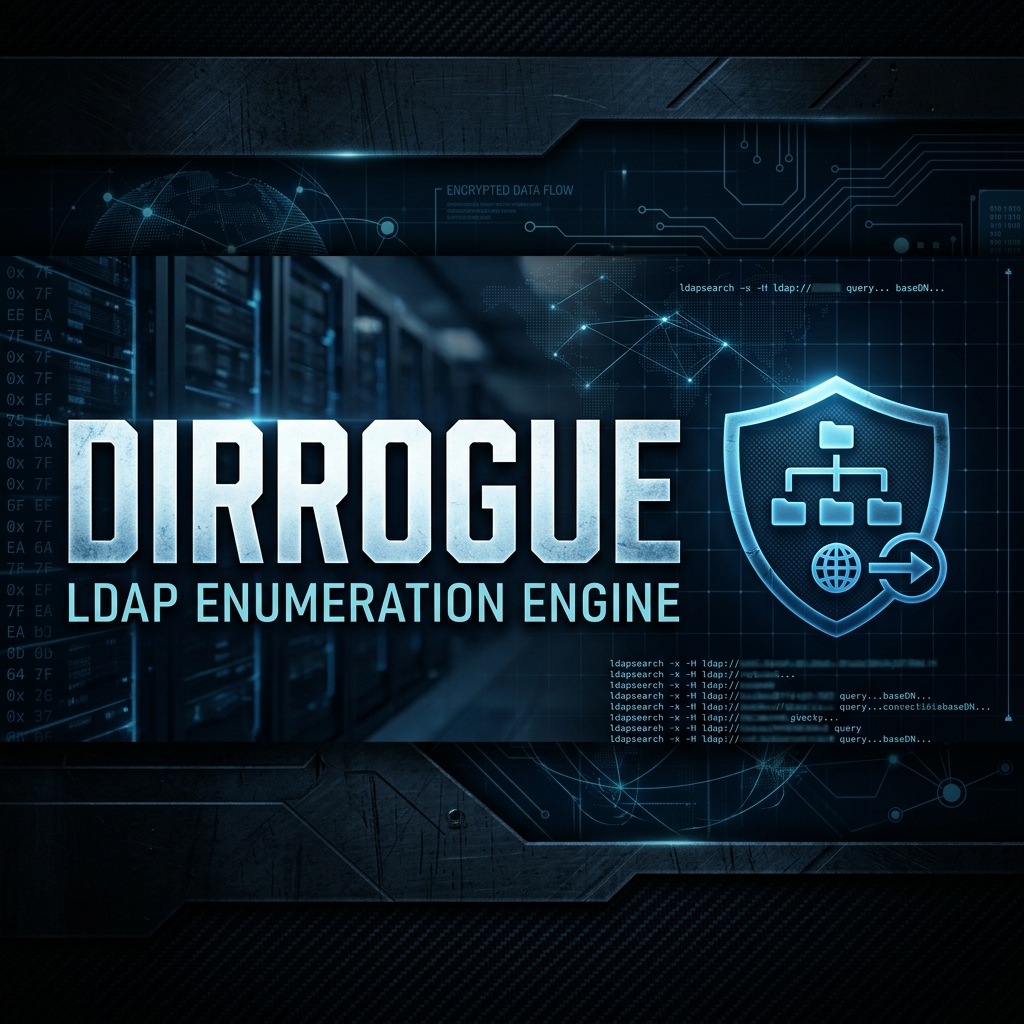
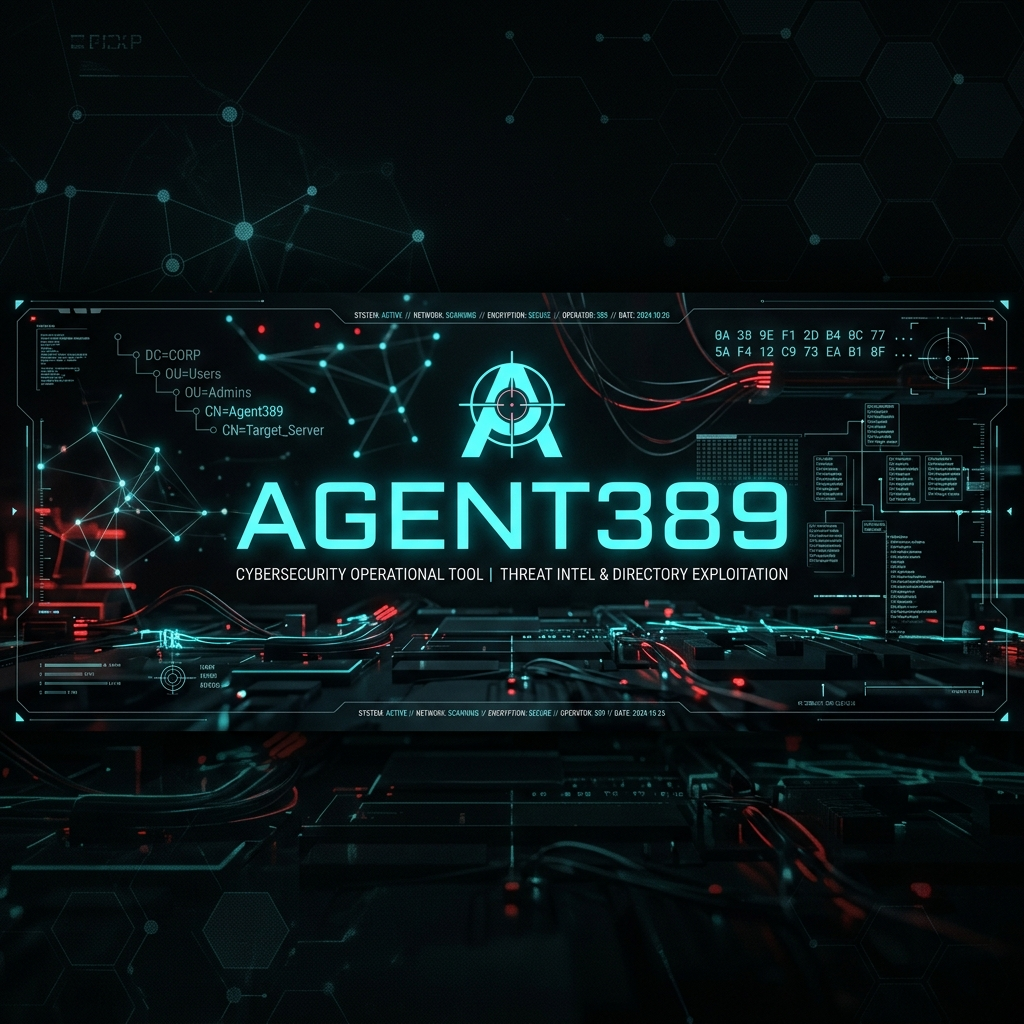
feat: transform project to Agent389 with professional hacker aesthetic

diff --git a/agent389.py b/agent389.py
@@ -28,7 +28,7 @@ def _parse_auth_data(s: Optional[str]) -> Dict[str, str]:
     return dict(p.split("=", 1) for p in s.split("&") if "=" in p)
 
 def _parse_args():
-    p = argparse.ArgumentParser(prog="dirrogue", description="DirRogue: Advanced LDAP Injection Security Toolkit")
+    p = argparse.ArgumentParser(prog="agent389", description="Agent389: Advanced LDAP Injection Security Toolkit")
     p.add_argument("target", help="Target base URL (e.g., http://nexus-corp.internal)")
     
     auth = p.add_argument_group("Authentication & Connection")
@@ -54,7 +54,7 @@ def _parse_args():
 
     out = p.add_argument_group("Output")
     out.add_argument("--output-dir", default=".", help="Directory to save findings")
-    out.add_argument("--findings", default="dirrogue_findings.json", help="JSON output filename")
+    out.add_argument("--findings", default="agent389_findings.json", help="JSON output filename")
     out.add_argument("-v", "--verbose", action="store_true", help="Enable verbose logging")
     out.add_argument("-q", "--quiet", action="store_true", help="Disable banner and info logs")
 

diff --git a/core/utils.py b/core/utils.py
@@ -11,7 +11,7 @@ from .models import Endpoint, Severity, ResponseClass, _TECHNIQUE_TO_FAMILY, _CV
 from .patterns import LDAP_ERRORS_RE, AUTH_SUCCESS_HIGH_RE, AUTH_SUCCESS_LOW_RE, AUTH_FAIL_RE, AUTH_FAIL_HTML_RE
 
 def now_iso() -> str: return datetime.now(timezone.utc).isoformat().replace("+00:00", "Z")
-def finding_id() -> str: return f"DRG-{uuid.uuid4().hex[:8].upper()}"
+def finding_id() -> str: return f"AG389-{uuid.uuid4().hex[:8].upper()}"
 
 def build_curl_poc(ep: Endpoint, param: str, payload: str, cookies: Optional[Dict[str, str]] = None, extra_headers: Optional[Dict[str, str]] = None) -> str:
     safe_pl = quote(payload, safe=""); cookie_str = f" -b '{'; '.join(f'{k}={v}' for k, v in cookies.items())}'" if cookies else ""
@@ -129,4 +129,4 @@ def print_finding_card(f: Any, idx: int = 0):
     print(f"\n{C.BRED}{C.BOLD}{p}CONFIRMED VULNERABILITY: LDAP Injection{C.RESET}")
     label("Endpoint", f.endpoint_url); label("Parameter", f.parameter_name); label("Payload", f.payload_raw); label("Severity", f.severity)
 
-BANNER = "DirRogue v1.0"
+BANNER = "Agent389 v1.0"

diff --git a/setup.py b/setup.py
@@ -1,15 +1,15 @@
 from setuptools import setup, find_packages
 
 setup(
-    name="dirrogue",
+    name="agent389",
     version="1.0",
-    description="DirRogue: Advanced LDAP Injection Security Toolkit [HELLHOUND-class]",
+    description="Agent389: Advanced LDAP Injection Security Toolkit [HELLHOUND-class]",
     author="Abinav3ac",
     packages=find_packages(),
-    py_modules=["dirrogue"],
+    py_modules=["agent389"],
     entry_points={
         "console_scripts": [
-            "dirrogue=dirrogue:main",
+            "agent389=agent389:main",
         ],
     },
     install_requires=[

diff --git a/README.md b/README.md
@@ -1,5 +1,5 @@
 <p align="center">
-  <img src="Image/banner.png" alt="DirRogue Banner" width="800">
+  <img src="Image/banner.png" alt="Agent389 Banner" width="800">
 </p>
 
 <p align="center">
@@ -9,17 +9,17 @@
   <img src="https://img.shields.io/badge/Platform-Linux%20%7C%20Windows-lightgrey.svg?style=flat-square" alt="Platform">
 </p>
 
-<h1 align="center">DirRogue</h1>
+<h1 align="center">Agent389</h1>
 
 <p align="center">
-  <b>DirRogue</b> is a high-fidelity, professional LDAP injection and enumeration engine designed for autonomous vulnerability research. It leverages advanced behavioral oracles and polymorphic mutation chains to identify deep-seated directory service flaws while maintaining full operational stealth.
+  <b>Agent389</b> is a professional, high-fidelity LDAP injection and enumeration engine designed for autonomous vulnerability research and exploitation. Inspired by the precision and lethality of tactical operations, Agent389 implements a multi-signal detection pipeline to uncover deep-seated directory service flaws while maintaining full operational stealth.
 </p>
 
 ---
 
 ## Tactical Overview
 
-DirRogue addresses the complexity of modern LDAP-backed web applications by implementing a multi-signal detection pipeline. Unlike traditional scanners, DirRogue correlates timing differentials, boolean response shifts, and out-of-band signals to build a deterministic proof of vulnerability.
+Agent389 addresses the complexity of modern LDAP-backed web applications by implementing an advanced detection pipeline. Unlike traditional scanners, Agent389 correlates timing differentials, boolean response shifts, and out-of-band signals to build a deterministic proof of vulnerability.
 
 ### Key Capabilities
 
@@ -33,7 +33,7 @@ DirRogue addresses the complexity of modern LDAP-backed web applications by impl
 
 ## Technical Specifications
 
-DirRogue is structured as a modular tactical suite, allowing for granular control over the scanning lifecycle:
+Agent389 is structured as a modular tactical suite, allowing for granular control over the scanning lifecycle:
 
 | Module | Functional Responsibility |
 | :--- | :--- |
@@ -49,11 +49,11 @@ DirRogue is structured as a modular tactical suite, allowing for granular contro
 
 ### Initial Setup
 
-To deploy DirRogue in your environment, utilize the integrated professional installer:
+To deploy Agent389 in your environment, utilize the integrated professional installer:
 
 ```bash
-git clone https://github.com/project-hellhound-org/DirRogue.git
-cd DirRogue
+git clone https://github.com/project-hellhound-org/Agent389.git
+cd Agent389
 chmod +x install.sh
 ./install.sh
 ```
@@ -63,37 +63,14 @@ chmod +x install.sh
 Run a tactical scan against a target environment:
 
 ```bash
-dirrogue https://target-app.internal --threads 10 --budget 1000
+agent389 https://target-app.internal --threads 10 --budget 1000
 ```
-
-### Advanced Configuration
-
-| Flag | Impact |
-| :--- | :--- |
-| --auth-url | Define a specific URL for authentication bypass testing. |
-| --collab | Set an external collaborator host for OOB callback detection. |
-| --force-scan | Bypass safety qualifications and scan all identified parameters. |
-| --findings | Specify a custom filename for the tactical JSON findings report. |
 
 ---
 
-## Detailed LDAP Content
+## Contributors
 
-### The Three-Step Verifier
-
-DirRogue implements a proprietary verification method to ensure zero false positives:
-
-1.  **Baseline Collection**: The engine establishes a behavior baseline for the target parameter.
-2.  **Differential Injection**: Submits paired payloads designed to produce opposing logical results (TRUE vs FALSE).
-3.  **Statistical Confirmation**: Analyzes response deltas using binomial distribution testing to confirm significance.
-
-### Polymorphic Mutation
-
-Payloads are dynamically wrapped in mutation chains including:
-- Null-byte injection (%00)
-- Character encoding variations
-- Filter nesting and logical chaining
-- Statistical metacharacter spraying
+- **Abinav3ac** (Lead Contributor & Architect)
 
 ---
 
